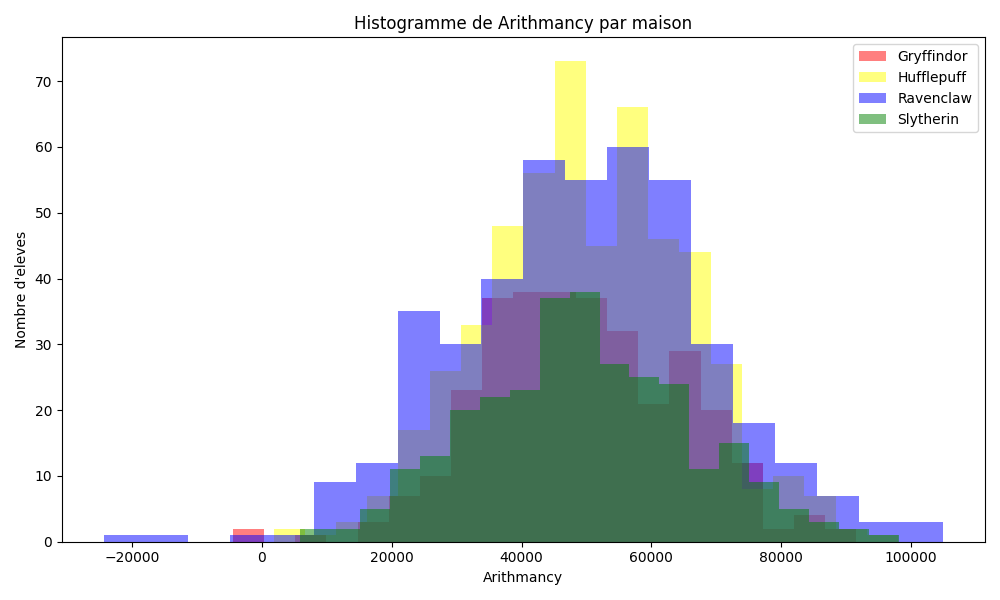
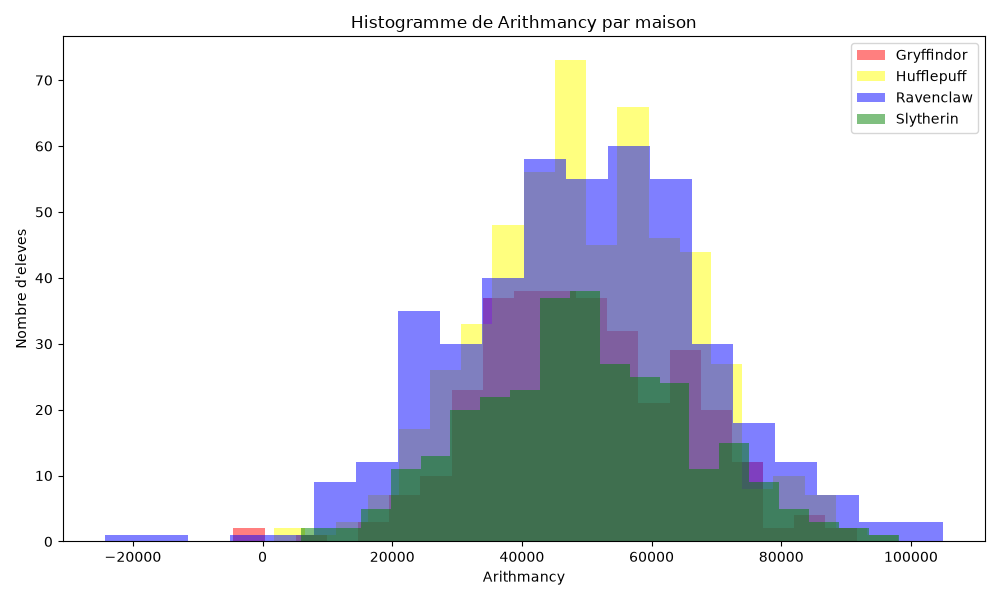
merge and docc string

diff --git a/srcs/ml/train.py b/srcs/ml/train.py
@@ -17,6 +17,8 @@ Ravenclaw Muggle Studies et notament Muggle Studies
 """
 
 def normalized_value(dataset_store: DatasetStore, features: list[str]) -> DataFrame:
+    """Return a normalized copy of the selected feature columns."""
+
     selected_column = features + ["Hogwarts House"]
     data = dataset_store.clean_dataframe[selected_column].copy()
     data = data.dropna(subset=features)
@@ -30,11 +32,13 @@ def normalized_value(dataset_store: DatasetStore, features: list[str]) -> DataFr
 
 
 def gradiant_descent(X, y, theta, method = 'batch'):
+    """Optimize theta with batch, stochastic, or mini-batch gradient descent."""
+
     if method == 'batch':
         alpha = 0.1
         num_iterations = 10000
         m = len(y)
-        for iter in range(num_iterations):
+        for epoch in range(num_iterations):
             h = simozoide(X @ theta)
             gradient = (X.T @ (h - y)) / m
             theta = theta - alpha * gradient
@@ -50,10 +54,25 @@ def gradiant_descent(X, y, theta, method = 'batch'):
                 h_i = simozoide(np.dot(x_i, theta))
                 gradient = (h_i - y_i) * x_i
                 theta = theta - alpha * gradient
+    if method == 'mini-batch':
+        alpha = 0.1
+        num_epochs = 100
+        batch_size = 32
+        m = len(y)
+        for epoch in range(num_epochs):
+            for start_idx in range(0, m, batch_size):
+                end_idx = min(start_idx + batch_size, m)
+                X_batch = X[start_idx:end_idx]
+                y_batch = y[start_idx:end_idx]
+                h_batch = simozoide(X_batch @ theta)
+                gradient = (X_batch.T @ (h_batch - y_batch)) / len(y_batch)
+                theta = theta - alpha * gradient
     return theta
 
 
 def train_models(dataset_store: DatasetStore, features: list[str], method: str = 'batch') -> Dict[str, list]:
+    """Train the one-vs-all logistic regression models and save their weights."""
+
     if not isinstance(features, list) :
         raise ValueError("Pair plot requires at least 2 features.")
 
@@ -65,20 +84,22 @@ def train_models(dataset_store: DatasetStore, features: list[str], method: str =
                 f"Available features are: {available}"
             )
 
-    if method not in ['batch', 'stochastic']:
-        raise ValueError("Invalid method. Choose 'batch' or 'stochastic'.")
+    if method not in ['batch', 'stochastic', 'mini-batch']:
+        raise ValueError("Invalid method. Choose 'batch', 'stochastic', or 'mini-batch'.")
 
     print(f"Features selected for train : {features}")
     normalized_data = normalized_value(dataset_store, features)
     X = normalized_data[features].values  # Convertir en NumPy array
     y = normalized_data["Hogwarts House"].values
-    write_predictions(y, "true_houses.csv")
+    #write_predictions(y, "true_houses.csv")
     weights = train_one_vs_all(X, y, method)
     print(f"Trained weights: {weights}")
     save_json(features, weights, dataset_store.stats_clean, "datasets/logreg_weights.json")
 
 
 def train_one_vs_all(X , y, method) -> Dict[str, list]:
+    """Train one binary classifier per Hogwarts house."""
+
     houses = ["Gryffindor", "Hufflepuff", "Ravenclaw", "Slytherin"]
     weights = {}
     
@@ -94,5 +115,7 @@ def train_one_vs_all(X , y, method) -> Dict[str, list]:
 
 
 def save_json(features: list[str], weights: Dict[str, list], describe: Dict[str, float], output_path: str) -> None:
+    """Serialize the trained model metadata and weights to JSON."""
+
     with open(output_path, "w", encoding="utf-8") as file_obj:
         json.dump({"features": features, "weights": weights, "describe": describe}, file_obj, indent=2)

diff --git a/srcs/visualization/pair_plot.py b/srcs/visualization/pair_plot.py
@@ -1,11 +1,10 @@
 from data.models import DatasetStore
 import matplotlib.pyplot as plt
-import pandas as pd
 import seaborn as sns
 
 
 def run_pair_plot(dataset_store: DatasetStore, features: list) -> None:
-    """Display a pair plot for multiple selected features with house coloring."""
+    """Render a pair plot for the selected features grouped by house."""
     if not isinstance(features, list) or len(features) < 2:
         raise ValueError("Pair plot requires at least 2 features.")
 
@@ -25,8 +24,8 @@ def run_pair_plot(dataset_store: DatasetStore, features: list) -> None:
         raise ValueError("No rows available to plot after filtering missing values.")
 
     num_features = len(features)
-    size_per_plot = 2.5
-    fig_size = (num_features * size_per_plot, num_features * size_per_plot)
+    size_per_plot = 2.8
+    fig_size = (max(6.0, num_features * size_per_plot), max(6.0, num_features * size_per_plot))
 
     house_palette = {
         "Gryffindor": "#C62828",
@@ -43,15 +42,27 @@ def run_pair_plot(dataset_store: DatasetStore, features: list) -> None:
         diag_kind="hist",
         corner=True,
         plot_kws={"alpha": 0.6, "s": 18},
-        height=size_per_plot / 2.5,
+        height=2.6,
+        aspect=1.0,
     )
+
+    g.fig.set_size_inches(*fig_size)
 
     for ax in g.axes.flat:
         if ax is not None:
-            ax.set_xlabel(ax.get_xlabel(), fontsize=8, rotation=45, ha="right")
-            ax.set_ylabel(ax.get_ylabel(), fontsize=8, rotation=45, ha="right")
+            ax.tick_params(axis="both", labelsize=8)
+            if ax.get_xlabel():
+                ax.set_xlabel(ax.get_xlabel(), fontsize=9, labelpad=8)
+            if ax.get_ylabel():
+                ax.set_ylabel(ax.get_ylabel(), fontsize=9, labelpad=8)
 
-    g.fig.subplots_adjust(left=0.15, bottom=0.15, right=0.95, top=0.95)
+    if g._legend is not None:
+        g._legend.set_title("Hogwarts House")
+        g._legend.set_bbox_to_anchor((1.02, 0.5))
+        g._legend._loc = 6
+        g._legend.set_frame_on(False)
 
-    plt.savefig(f"visu/pair_plots/{'_'.join(features)}.png")
+    g.fig.subplots_adjust(left=0.14, bottom=0.14, right=0.78, top=0.95, wspace=0.15, hspace=0.15)
+
+    plt.savefig(f"visu/pair_plots/{'_'.join(features)}.png", bbox_inches="tight")
     

diff --git a/srcs/data/preprocess.py b/srcs/data/preprocess.py
@@ -7,18 +7,26 @@ from .exceptions import InvalidValueError
 
 
 def is_nan(value) -> bool:
+    """Return True when value is a floating-point NaN."""
+
     return isinstance(value, float) and math.isnan(value)
 
 
 def extract_feature_names(dataset: DataFrame, start_index: int = 6) -> List[str]:
+    """Extract numerical feature names from a dataset starting at start_index."""
+
     return list(dataset.columns[start_index:])
 
 
 def extract_houses(dataset: DataFrame, house_column: str = "Hogwarts House") -> List[str]:
+    """Extract the Hogwarts House labels from the dataset."""
+
     return list(dataset[house_column])
 
 
 def dataframe_to_feature_matrix(dataset: DataFrame, feature_names: List[str]) -> List[List[float]]:
+    """Convert selected feature columns into a matrix of row values."""
+
     if dataset is None:
         raise InvalidValueError
     matrix = []
@@ -28,6 +36,8 @@ def dataframe_to_feature_matrix(dataset: DataFrame, feature_names: List[str]) ->
 
 
 def compute_feature_means(feature_matrix: List[List[float]]) -> List[Optional[float]]:
+    """Compute the mean of each feature while ignoring NaN values."""
+
     if not feature_matrix:
         return []
 
@@ -47,6 +57,8 @@ def compute_feature_means(feature_matrix: List[List[float]]) -> List[Optional[fl
 
 
 def clean_nan(feature_matrix: List[List[float]]) -> List[List[float]]:
+    """Replace missing feature values with the corresponding column mean."""
+
     if not feature_matrix:
         return feature_matrix
 
@@ -66,6 +78,8 @@ def build_clean_dataframe(
     feature_names: List[str],
     clean_feature_matrix: List[List[float]],
 ) -> DataFrame:
+    """Return a copy of the raw DataFrame with cleaned feature columns."""
+
     clean_dataframe = raw_dataframe.copy()
 
     for row_idx, row in enumerate(clean_feature_matrix):

diff --git a/srcs/ml/predict.py b/srcs/ml/predict.py
@@ -17,6 +17,8 @@ Ravenclaw Muggle Studies et notament Muggle Studies
 """
 
 def normalized_value(dataset_store: DatasetStore, features: list[str], describe: Dict[str, Dict[str, float]]) -> DataFrame:
+    """Normalize a prediction dataset with the provided training statistics."""
+
     selected_column = features + ["Hogwarts House"]
     data = dataset_store.clean_dataframe[selected_column].copy()
     data = data.dropna(subset=features)
@@ -29,7 +31,8 @@ def normalized_value(dataset_store: DatasetStore, features: list[str], describe:
     return data
 
 def predict_houses(dataset_store: DatasetStore, data: Dict[str, list]) -> List[str]:
-    """Placeholder for one-vs-all logistic regression prediction."""
+    """Predict Hogwarts houses and write them to houses.csv."""
+
     features = data["features"]
     weights = data["weights"]
     describe = data["describe"]
@@ -48,6 +51,8 @@ def predict_houses(dataset_store: DatasetStore, data: Dict[str, list]) -> List[s
     return predictions
 
 def write_predictions(predictions: List[str], output_path: str = "houses.csv") -> None:
+    """Write predicted houses to a CSV file with the required header."""
+
     with open(output_path, "w", encoding="utf-8", newline="") as file_obj:
         writer = csv.writer(file_obj)
         writer.writerow(["Index", "Hogwarts House"])

diff --git a/srcs/main/describe.py b/srcs/main/describe.py
@@ -12,10 +12,14 @@ from data import try_prepare_dataset
 
 
 def _format_value(value: float) -> str:
+    """Format a numeric value with six decimal places."""
+
     return f"{value:.6f}"
 
 
 def _shorten(text: str, width: int) -> str:
+    """Truncate text to fit a fixed display width."""
+
     if len(text) <= width:
         return text
     if width <= 3:
@@ -24,6 +28,8 @@ def _shorten(text: str, width: int) -> str:
 
 
 def _print_stats(stats: Dict[str, Dict[str, float]], feature_names: List[str], title: str, show_missing: bool) -> None:
+    """Print a formatted statistics table for the selected features."""
+
     if not stats:
         print(f"{title}: no numeric features found.")
         return
@@ -66,6 +72,8 @@ def _print_stats(stats: Dict[str, Dict[str, float]], feature_names: List[str], t
 
 
 def main() -> int:
+    """Entry point for the dataset description command."""
+
     parser = argparse.ArgumentParser(description="Manual describe for Hogwarts dataset.")
     parser.add_argument("datasets", nargs="?", default="datasets/dataset_train.csv", help="Path to dataset CSV")
     args = parser.parse_args()

diff --git a/srcs/data/stats.py b/srcs/data/stats.py
@@ -6,6 +6,8 @@ from .preprocess import is_nan
 
 
 def var_skew_kurt(values: List[float], mean: float) -> Tuple[float, float, float]:
+    """Compute variance, skewness, and kurtosis for a sorted numeric sample."""
+
     variance_sum = 0.0
     m2_sum = 0.0
     m3_sum = 0.0
@@ -34,6 +36,8 @@ def var_skew_kurt(values: List[float], mean: float) -> Tuple[float, float, float
 
 
 def _percentile_from_sorted(values: List[float], ratio: float) -> float:
+    """Return the percentile value from a pre-sorted sample using a simple index rule."""
+
     if not values:
         return float("nan")
     index = int(len(values) * ratio)
@@ -43,6 +47,8 @@ def _percentile_from_sorted(values: List[float], ratio: float) -> float:
 
 
 def compute_stats_for_matrix(feature_matrix: List[List[float]], feature_names: List[str]) -> FeatureStats:
+    """Compute descriptive statistics for each feature column in a matrix."""
+
     stats: FeatureStats = {}
 
     if not feature_matrix or not feature_names:

diff --git a/srcs/visualization/scatter_plot.py b/srcs/visualization/scatter_plot.py
@@ -3,14 +3,12 @@ import matplotlib.pyplot as plt
 import math
 
 def is_nan(value) -> bool:
+    """Return True when value is a floating-point NaN."""
+
     return isinstance(value, (float, int)) and math.isnan(value)
 
 def run_scatter_plot(dataset_store: DatasetStore, feature_1: str, feature_2: str) -> None:
-    """Placeholder for scatter plot visualization.
-
-    Expected question:
-    What are the two features that are similar?
-    """
+    """Plot two features against each other, grouped by house."""
     if feature_1 not in dataset_store.feature_names or feature_2 not in dataset_store.feature_names:
         available = ", ".join(dataset_store.feature_names)
         raise ValueError(

diff --git a/srcs/data/pipeline.py b/srcs/data/pipeline.py
@@ -13,6 +13,8 @@ from .stats import compute_stats_for_matrix
 
 
 def prepare_dataset(path: str) -> DatasetStore:
+    """Load a dataset, clean missing values, and compute statistics."""
+
     dataset = load_dataset(path)
     if dataset is None:
         raise FileNotFoundError(f"Unable to load dataset from '{path}'")
@@ -41,6 +43,8 @@ def prepare_dataset(path: str) -> DatasetStore:
 
 
 def try_prepare_dataset(paths: List[str]) -> Optional[DatasetStore]:
+    """Try several dataset paths and return the first successfully loaded store."""
+
     for path in paths:
         loaded = load_dataset(path)
         if loaded is None:

diff --git a/srcs/ml/utils.py b/srcs/ml/utils.py
@@ -5,17 +5,22 @@ import json
 
 
 def load_json(path: str):
+    """Load and return JSON data from a file path."""
+
     with open(path) as f:
         data = json.load(f)
     return data
 
 
 def simozoide(z :float) -> float:
+    """Compute the sigmoid activation for z."""
+
     return 1 / (1 + np.exp(-z))
 
 
 def compute_cost(X, y, theta):
-    """Binary cross-entropy cost function"""
+    """Compute the binary cross-entropy cost for logistic regression."""
+
     h = simozoide(X @ theta)
     cost = -np.mean(y * np.log(h + 1e-15) + (1 - y) * np.log(1 - h + 1e-15))
     return cost

diff --git a/srcs/visualization/histogram.py b/srcs/visualization/histogram.py
@@ -3,10 +3,12 @@ import matplotlib.pyplot as plt
 import math
 
 def is_nan(value) -> bool:
+    """Return True when value is a floating-point NaN."""
+
     return isinstance(value, float) and math.isnan(value)
 
 def run_histogram(dataset_store: DatasetStore, feature: str) -> None:
-    """Plot score distributions for one feature split by Hogwarts house."""
+    """Plot a feature histogram split by Hogwarts house."""
     if feature not in dataset_store.feature_names:
         available = ", ".join(dataset_store.feature_names)
         raise ValueError(

diff --git a/srcs/main/logreg_predict.py b/srcs/main/logreg_predict.py
@@ -13,6 +13,8 @@ from ml import load_json, predict_houses
 
 
 def main() -> int:
+    """Entry point for generating Hogwarts house predictions."""
+
     parser = argparse.ArgumentParser(description="One-vs-all logistic regression prediction entrypoint.")
     parser.add_argument("datasets", nargs="?", default="datasets/dataset_test.csv")
     parser.add_argument("logreg_weights", nargs="?", default="datasets/logreg_weights.json", help="Path to features, trained weights and describe file")

diff --git a/srcs/data/io.py b/srcs/data/io.py
@@ -5,7 +5,7 @@ from pandas import DataFrame
 
 
 def load_dataset(path: str) -> Optional[DataFrame]:
-    """Load a CSV file and display its dimensions."""
+    """Load a CSV file into a DataFrame and report its shape."""
     try:
         dataset = pd.read_csv(path)
         print(f"Loading dataset of dimensions {dataset.shape}")
